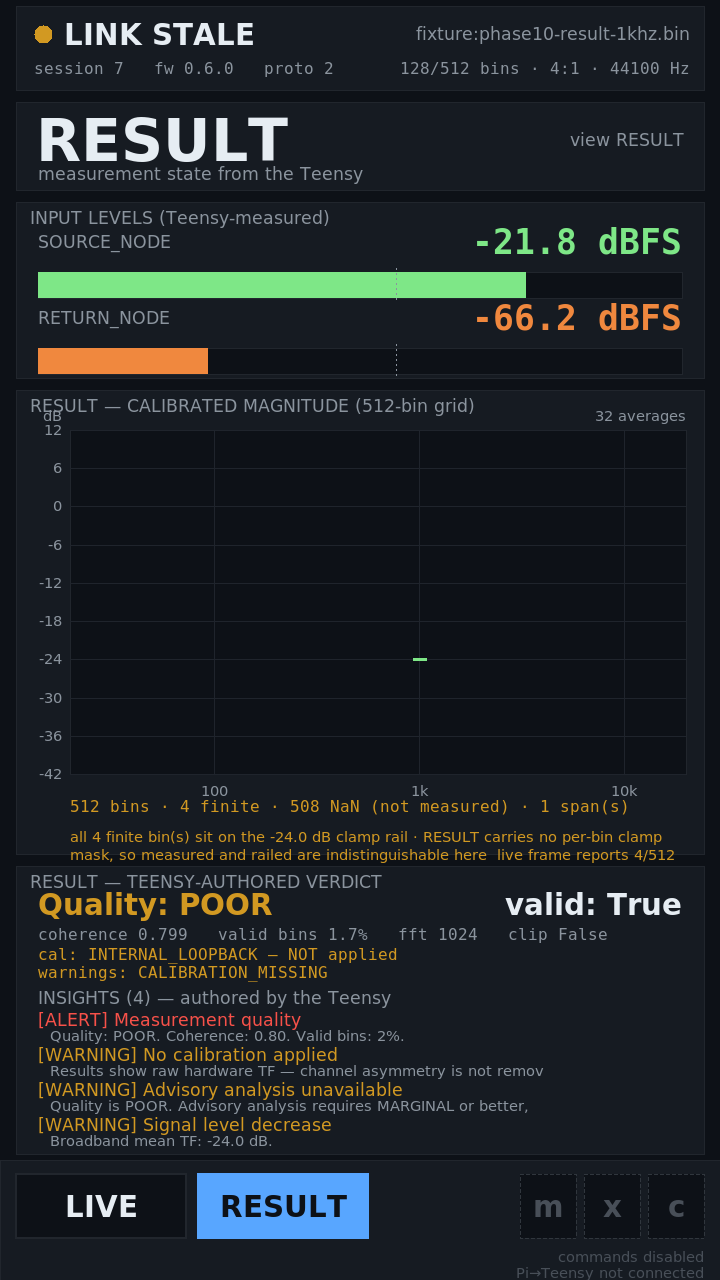
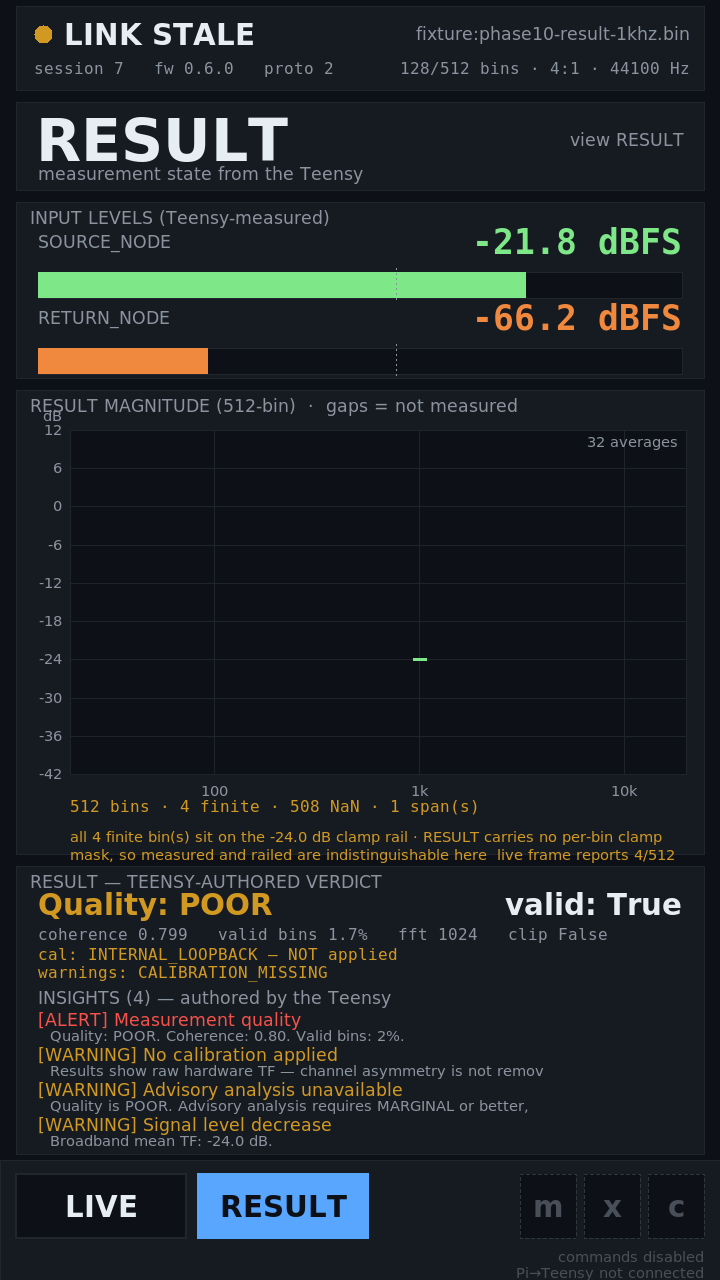
evidence(pi): UI reads the live UART on the physical display
First time the production UI has rendered live Teensy telemetry off
/dev/ttyAMA0 on the Touch Display 2. No flash, no firmware change, no
measurement initiated, no analog or routing change. Firmware dcfbffa,
session 9, unchanged since T1 Run 2.

Ground truth was captured BEFORE the UI touched the port -- two readers on
one tty would split the byte stream -- then compared: 182 305 B at
36 461 B/s, session 9, IDLE, TS return, detectors UNKNOWN.

Verified: HELLO establishes the session with geometry read from the wire;
LINK UP; SOURCE/RETURN updating; frames ok 100 -> 255 in six seconds, i.e.
25.8 packets/s against the producer's measured 25.6/s; CRC 0, decode 0,
interior discard 0; router TS with every detector UNKNOWN; clean SIGTERM
exit; and the device genuinely released, proved by a fresh capture.sh
succeeding immediately afterwards rather than by the process disappearing.

Receive-only is structural and now provable: /proc/<pid>/fd shows
lr-x ... -> /dev/ttyAMA0, because SerialSource opens O_RDONLY. The UI
cannot transmit even by accident.

THE TONE WAS OFF AGAIN, AND IT SHARPENED THE TEST. Source and return
within 1 dB at the noise floor, so the live transfer function renders
NOTHING, and the instrument says why: 0 finite, 128 NaN, 0 clamped,
128 lifted. A renderer willing to interpolate, or to read "no data" as
zero, would have drawn a confident line across an input that was not
there. Still owed for the portfolio: the opposite shot, an energised live
[…]

diff --git a/pi/analyzer_ui/app.py b/pi/analyzer_ui/app.py
@@ -95,11 +95,14 @@ class AnalyzerUI:
         self.root.title("Guitar Rig Analyzer")
         self.root.configure(bg=BG)
         self.root.geometry(f"{W}x{H}")
+        self._want_fullscreen = fullscreen
         if fullscreen:
-            self.root.attributes("-fullscreen", True)
-            # The desktop icon layer drew over the canvas on this Pi's
-            # labwc session; -topmost keeps the instrument in front.
-            self.root.attributes("-topmost", True)
+            self._go_fullscreen()
+            # Applying -fullscreen before the window is mapped is silently
+            # ignored under XWayland on this Pi -- one launch in several came
+            # up windowed with the taskbar visible. Re-assert after the window
+            # exists; it is idempotent, so doing it twice costs nothing.
+            self.root.after(120, self._go_fullscreen)
         self.root.bind("<Escape>", lambda _e: self.root.destroy())
 
         self.canvas = tk.Canvas(self.root, width=W, height=H, bg=BG,
@@ -114,6 +117,18 @@ class AnalyzerUI:
             "meter": _f(26, True, mono=True),
         }
         self._hit: list[tuple[int, int, int, int, str]] = []
+
+    def _go_fullscreen(self) -> None:
+        if not self._want_fullscreen:
+            return
+        try:
+            self.root.update_idletasks()
+            self.root.attributes("-fullscreen", True)
+            # The desktop icon layer composites over the canvas on this Pi's
+            # labwc session; -topmost keeps the instrument in front.
+            self.root.attributes("-topmost", True)
+        except tk.TclError:                        # pragma: no cover - teardown
+            pass
 
     # -- input ---------------------------------------------------------------
 
@@ -266,8 +281,8 @@ class AnalyzerUI:
         c.create_text(x0 - 8, y0 - 14, text="dB", anchor="e", fill=MUTED,
                       font=self.fonts["tiny"])
         if subtitle:
-            c.create_text(x1, y0 - 14, text=subtitle, anchor="e", fill=MUTED,
-                          font=self.fonts["tiny"])
+            c.create_text(x1 - 8, y0 + 12, text=subtitle, anchor="e",
+                          fill=MUTED, font=self.fonts["tiny"])
         return fx, fy, (x0, y0, x1, y1)
 
     def _draw_curve(self, segs, colour, width=2) -> None:
@@ -285,7 +300,7 @@ class AnalyzerUI:
     def _census_line(self, box, cen, extra="") -> None:
         x0, _y0, x1, y1 = box
         txt = (f"{cen['elements']} bins · {cen['finite']} finite · "
-               f"{cen['nan']} NaN (not measured)")
+               f"{cen['nan']} NaN")
         if cen["pos_inf"] or cen["neg_inf"]:
             txt += f" · {cen['pos_inf'] + cen['neg_inf']} Inf — FINDING"
         if extra:
@@ -299,7 +314,9 @@ class AnalyzerUI:
                 if s.tf_confidence is not None else "")
         if s.tf_clamped_count is not None:
             conf += f"   ·   {s.tf_clamped_count}/512 clamped"
-        fx, fy, box = self._plot_frame("LIVE TRANSFER FUNCTION", conf)
+        fx, fy, box = self._plot_frame(
+            "LIVE TRANSFER FUNCTION  ·  gaps = not measured",
+            conf)
         if live is None or geo is None:
             self.canvas.create_text((box[0] + box[2]) / 2,
                                     (box[1] + box[3]) / 2,
@@ -335,7 +352,7 @@ class AnalyzerUI:
     def _draw_result_plot(self, s: Snapshot) -> None:
         res, geo = s.result, s.geometry
         fx, fy, box = self._plot_frame(
-            "RESULT — CALIBRATED MAGNITUDE (512-bin grid)",
+            "RESULT MAGNITUDE (512-bin)  ·  gaps = not measured",
             f"{res.n_averages_completed} averages" if res else "")
         if res is None or geo is None:
             self.canvas.create_text((box[0] + box[2]) / 2,

diff --git a/ai/evidence/2026-09-30-pi-ui-live-uart-smoke-test.md b/ai/evidence/2026-09-30-pi-ui-live-uart-smoke-test.md
@@ -1,0 +1,132 @@
+# Live Pi UI smoke test — the production UI reading the real UART
+
+**2026-09-30 (00:05–00:15 local).** First time the Pi UI has rendered live
+Teensy telemetry off `/dev/ttyAMA0` on the physical Touch Display 2.
+
+**No flash. No firmware change. No validation harness, generator, injection,
+relay or analog change. No measurement initiated.** Firmware `26f2bee`,
+session **9**, unchanged since T1 Run 2. Receive-only wiring untouched.
+
+Media: [`2026-09-30-pi-ui-live-uart.png`](2026-09-30-pi-ui-live-uart.png)
+(live, `/dev/ttyAMA0`) and
+[`2026-09-29-pi-ui-result-view.png`](2026-09-29-pi-ui-result-view.png)
+(the real 2026-09-27 RESULT, replayed).
+
+## Ground truth established BEFORE the UI touched the port
+
+Two readers on one tty would split the byte stream, so the reference capture was
+taken first, with the UI not running:
+
+```
+sh pi/tools/capture.sh /dev/ttyAMA0 5 /tmp/gt.bin
+elapsed 5s of 5s · 182 305 B · 36 461 B/s
+sha256 e2e3bc42bdb6750d518047c6ec705dc972a38a5abbe03d4ae26ff437e37faefa
+```
+
+`replay.py`: session **9**, firmware 0.6.0, geometry 128/512/4:1/44100,
+`measurement_state IDLE`, no abort, `return_source TS`, all four detectors
+UNKNOWN, `any_detector_available False`, injection inactive,
+**peak source −65.2 dBFS / peak return −66.2 dBFS**, `tf_confidence 0.0`,
+`tf_clamped_count 0`. `TRANSPORT: OK`.
+
+## ⚠ The 1 kHz stimulus was NOT playing
+
+Source and return within 1 dB of each other, both at the noise floor, zero
+confidence, zero clamped bins — the documented signature of an absent input. The
+phone tone stopped again at some point after Run 2.
+
+**That is not a defect and it did not block the smoke test.** Every item on the
+checklist is about the *link and the renderer*, none of which depends on signal
+being present. It also produced a sharper demonstration than a tone would have:
+with nothing on the input the live TF plot is **completely empty**, and the
+instrument says exactly why — `0 finite · 128 NaN · 0 clamped · 128 lifted`.
+A UI willing to fabricate would have drawn something there.
+
+**What it does mean:** the portfolio "hero" shot of an *energised* live transfer
+function still needs the tone restarted. Everything else is captured.
+
+## Checklist — all verified
+
+| Required | Observed |
+|---|---|
+| UI launches on the physical Touch Display | ✅ fullscreen 720×1280 portrait, captured with `grim` |
+| HELLO establishes the session | ✅ `LINK UP`, session **9**, fw 0.6.0, proto 2, geometry 128/512 · 4:1 · 44100 Hz — all from HELLO, none hard-coded |
+| Live SOURCE/RETURN telemetry updates | ✅ SOURCE −64.3 → −64.7 → −63.5 dBFS across captures; RETURN −65.2…−67.4. Noise-floor wander, which is what a real noise floor does |
+| Live TF updates without fabricating | ✅ **nothing drawn**: `128 bins · 0 finite · 128 NaN · 0 clamped · 128 lifted`, confidence 0 % |
+| Router reports TS and detectors UNKNOWN | ✅ `Return source: TS`, `TS return, no injection`, `detectors: UNKNOWN (no detect hardware fitted)`, with the ADR-004 note on screen |
+| Connection status correct | ✅ `LINK UP` while streaming; `LINK STALE` (amber) on the spent fixture — the staleness rule works in both directions |
+| Closes cleanly, releases the device | ✅ see below |
+
+### Live counters advancing (same run, 6 s apart)
+
+`frames ok 100 → 255` — **155 frames in 6 s = 25.8 packets/s** against the
+producer's measured 25.6/s. `CRC fail 0`, `decode err 0`, `interior 0`
+throughout.
+
+### Receive-only, proved rather than asserted
+
+```
+ls -l /proc/<pid>/fd  →  lr-x------ 1 conley conley 64 … 3 -> /dev/ttyAMA0
+```
+
+**`lr-x`** — opened read-only. `SerialSource` uses `os.O_RDONLY`, so the UI
+**cannot transmit even by accident**. The Pi→Teensy direction stays physically
+disconnected *and* structurally impossible from this code.
+
+### Clean shutdown and device release
+
+`kill -TERM` → process gone; `ls -l /proc/*/fd | grep -c ttyAMA0` → **0**; and a
+fresh `capture.sh` immediately afterwards succeeded (109 693 B at 36 564 B/s),
+which proves the device was actually released rather than merely closed on paper.
+
+### Leading-discard split, visible live
+
+Three launches reported `discarded 634 / 357 / 96 — (lead N, interior 0)`. The
+figure varies because it is set by **where inside a packet the reader attached**,
+which is exactly what the 2026-09-27 byte-accounting analysis established. Every
+one had **interior 0**. The instrument now shows that split on its own face.
+
+## 🛑 TODO-65 preserved and visible, not silently resolved
+
+**RESULT carries no per-bin clamp mask.** The real RESULT's four finite magnitude
+bins all read exactly **−24.0 dB**, the firmware's clamp rail, and nothing in the
+RESULT packet distinguishes a measured −24.0 dB from a railed one. LIVE_FRAME
+carries per-bin coverage nibbles and `tf_clamped_count`; RESULT carries neither.
+
+**The Pi does not infer clamp status.** It prints the limitation on the plot:
+
+> *all 4 finite bin(s) sit on the −24.0 dB clamp rail · RESULT carries no per-bin
+> clamp mask, so measured and railed are indistinguishable here · live frame
+> reports 4/512 clamped*
+
+The −24.0 dB comparison is a **disclosure heuristic, not a classification**: it
+says "these might be rails and I cannot tell", never "these are rails". It must
+be deleted when the protocol closes the gap. A test pins the gap's existence so
+it fails loudly when that happens.
+
+## What this does NOT establish
+
+- **Not T1.** Blocked on the harness stride defect (TODO-39); untouched here.
+- **Not a live RESULT.** No measurement was initiated, deliberately — the
+  2026-09-27 fixture already provides a real one. RESULT rendering is proven
+  against recorded bytes, not against a live delivery.
+- **Not the Pi→Teensy path.** Physically disconnected; commands render disabled.
+- **Not runbook step 7.** The clamp *rendering* contract needs an energised,
+  clamped live signal to demonstrate, which needs the tone back.
+- **Not Phase 9, not Phase 10.** Both open.
+
+## Blockers to making this the production launch path
+
+**None technical.** It runs, reads live, renders honestly, and exits cleanly.
+Outstanding for "normal launch path" status:
+
+1. **Autostart** — a `.desktop` entry or systemd user unit so the panel comes up
+   into the instrument rather than the desktop. Not done; a deliberate choice, so
+   the Pi stays a normal desktop while it is also a development machine.
+2. **Desktop icon layer** composites *over* the fullscreen window on this labwc
+   session. Worked around for captures with `pcmanfm --desktop-off`, restored
+   afterwards. Autostart plus a hidden desktop would remove it permanently.
+3. **Fullscreen race** — `-fullscreen` applied before the window is mapped was
+   silently ignored on roughly one launch in several under XWayland. Fixed by
+   re-asserting it 120 ms after mapping; the launch that exposed it came up
+   windowed with a taskbar, which is how it was caught.

diff --git a/ai/journal.md b/ai/journal.md
@@ -12,6 +12,36 @@ How to use this file:
 
 ---
 
+## 2026-09-30 (1) — **The Pi UI is reading the live UART on the physical display.** With no stimulus connected it draws nothing, and says why — which is a better demonstration than a tone would have been
+
+Checkpointed the night's work as three commits, then ran the live smoke test. No flash, no firmware change, no measurement initiated, no analog or routing change. Firmware `26f2bee`, session **9**, unchanged since Run 2. Record: [`2026-09-30-pi-ui-live-uart-smoke-test.md`](evidence/2026-09-30-pi-ui-live-uart-smoke-test.md).
+
+**Ground truth first, deliberately.** Two readers on one tty split the byte stream, so a 5 s `capture.sh` reference was taken *before* the UI touched the port: 182 305 B at 36 461 B/s, session 9, IDLE, TS return, detectors UNKNOWN. Then the UI, then the comparison.
+
+**Everything on the checklist verified.** HELLO established the session with geometry read from the wire rather than hard-coded; `LINK UP`; SOURCE/RETURN updating; `frames ok 100 → 255` in six seconds, which is **25.8 packets/s against the producer's measured 25.6/s**; CRC 0, decode 0, interior discard 0; router TS with every detector UNKNOWN and the ADR-004 note on screen; clean SIGTERM exit; and the device genuinely released — proved by a fresh capture succeeding immediately afterwards, not by the process merely disappearing.
+
+**Receive-only is structural, and now provable.** `/proc/<pid>/fd` shows `lr-x ... -> /dev/ttyAMA0`. `SerialSource` opens `O_RDONLY`, so the UI cannot transmit even by accident. The Pi→Teensy direction is both physically disconnected and impossible from this code.
+
+### The tone was off again, and it made the test better
+
+Source and return within 1 dB of each other at the noise floor — the documented signature of an absent input. So the live transfer function rendered **completely empty**, with the instrument stating `0 finite · 128 NaN · 0 clamped · 128 lifted`.
+
+That is the whole design argument in one screenshot. A renderer willing to interpolate, or to treat "no data" as zero, would have drawn a confident line across an input that was not there. This one draws nothing and explains itself. **What is still owed is the opposite shot** — an energised live TF — and that needs the phone restarted, which is the one thing I cannot do.
+
+### Three layout defects found only by looking at the panel
+
+Text that reads fine in code collided on a 720×1280 portrait panel: the verdict row overlapped itself, the fourth insight was clipped — the one saying advisories are unavailable, exactly the one you must not lose — and the census line ran off the right edge. All three were invisible until the screenshot. **Rendering to a real panel is a test, not a formality.**
+
+Two placement attempts for the "gaps = not measured" note also collided, first with the panel title and then with the subtitle. The fix was structural rather than another nudge: move the subtitle *inside* the plot box so the title row is free whatever its length. Chasing pixels twice was the signal to change the layout instead of the coordinates.
+
+**One real bug surfaced the same way.** `-fullscreen` applied before the window is mapped is silently ignored under XWayland — about one launch in several came up windowed with the taskbar showing. Re-asserting it 120 ms after mapping fixes it. It would never have appeared in a test suite.
+
+### TODO-65 stays visible rather than quietly resolved
+
+The real RESULT's four finite bins all read exactly −24.0 dB, the clamp rail, and RESULT carries no per-bin clamp mask — LIVE_FRAME does. The Pi **does not infer** clamp status. It prints the limitation on the plot, and the −24.0 comparison is a disclosure heuristic that says *"these might be rails and I cannot tell"*, never *"these are rails"*. It gets deleted when the protocol closes the gap, and a test pins the gap so it fails loudly then.
+
+**No technical blocker to making this the production launch path.** What is left is autostart, and hiding the desktop icon layer that composites over the fullscreen window on this labwc session.
+
 ## 2026-09-29 (1) — **T1 Run 2 ran, and the harness failed before the instrument did: 44 490 "skipped blocks" that never happened.** A 128-sample audio counter was being read as a 2 048-sample analysis counter. The Pi side had it right all along
 
 First hardware execution of `timing_probe`, and it broke on contact. Firmware `26f2bee` unmodified, session **9**, fresh physical power cycle, only `t` and `T` ever sent. **No flash, no firmware edit, no retry.** Records: [`t1-run2-pi-normal.txt`](evidence/t1-run2-pi-normal.txt), [`2026-09-29-t1-harness-block-stride-defect.md`](evidence/2026-09-29-t1-harness-block-stride-defect.md).

diff --git a/ai/todo.md b/ai/todo.md
@@ -1285,6 +1285,8 @@ from *schema-frozen, transport-unproven* to proven, and the milestone is
 ### TODO-36 — Pi-side software deliverables 🟡 **PARSER BUILT 2026-09-26, HARDENED 2026-09-27. RENDERER PROVISIONALLY AUTHORISED 2026-09-29 — a development decision, NOT an acceptance waiver**
 > **✅ OPERATOR AUTHORISATION 2026-09-29, and its exact scope.** Renderer development may proceed **despite the incomplete T1 matrix**. Stated by the operator as *"provisional … This is a development decision, NOT an acceptance waiver."*
 > **What justifies it:** the T1 gate existed because *"a renderer embeds frame-rate and latency assumptions T1 could invalidate."* Run 2 **measured** those assumptions directly — **46.440 ms ± 0.089 ms block period, 21.5 frames/s, 0 dropped frames, 282 µs max transport call time** — so the renderer's inputs are now observed rather than speculative. And T1 is blocked on a **firmware instrumentation defect** (TODO-39), not on bench availability, so waiting would stall the deadline-critical work behind a defect fix that must not be flashed mid-matrix.
+> **✅ LIVE ON THE PHYSICAL DISPLAY, OFF THE REAL UART, 2026-09-30.** `python3 -m analyzer_ui --serial /dev/ttyAMA0` on the Touch Display 2: HELLO established session **9** with geometry read from the wire, `LINK UP`, live SOURCE/RETURN updating, router `TS` with all detectors `UNKNOWN`, `frames ok 100 → 255` in 6 s (**25.8 packets/s** against the producer's 25.6/s), CRC 0, decode 0, interior discard 0. **Receive-only proved structurally**, not asserted: `/proc/<pid>/fd` shows `lr-x ... -> /dev/ttyAMA0`, because `SerialSource` opens `O_RDONLY`. Closed on SIGTERM and **released the device** — a fresh `capture.sh` immediately afterwards succeeded. **No measurement was initiated**; the 2026-09-27 fixture supplies the RESULT. Record: [`2026-09-30-pi-ui-live-uart-smoke-test.md`](evidence/2026-09-30-pi-ui-live-uart-smoke-test.md), media [`2026-09-30-pi-ui-live-uart.png`](evidence/2026-09-30-pi-ui-live-uart.png).
+> **📌 The 1 kHz tone was not playing, and that sharpened the test.** Source and return both at the noise floor → the live TF plot renders **nothing at all**, and says why: `0 finite · 128 NaN · 0 clamped · 128 lifted`. A renderer willing to fabricate would have drawn something. **Still owed for the portfolio: an energised live TF, which needs the tone restarted.**
 > **🛑 WHAT THIS DOES NOT DO.** It does **not** close T1. It does **not** close this item, TODO-35, or runbook steps 7/11/12. It does **not** make the UI "accepted" — the renderer must be re-validated against the acceptance matrix once TODO-39 is fixed and the four runs actually complete. **Do not let a working UI be cited as evidence that T1 passed.**
 > **✅ SLICE 2 2026-09-27 — software only, no firmware change, no bench action. 228 → 252 tests.** Three things, all driven by real hardware bytes rather than by re-reading the header:
 > 1. **Discarded bytes are now judged by POSITION, and that was a real hole.** `replay.py` compared the *total* against `max_payload_bytes()` = **10 005 B** and called anything below it "explainable by a mid-stream start" — so up to 10 005 bytes of genuine **interior** loss could pass silently under a figure the report described as a capture artefact, and the bound used a *payload* size where one *framed* packet was the correct quantity. `ScannerStats` now splits leading from interior loss (`bytes_discarded` kept as their sum, so byte accounting and existing readers are unaffected), `replay.py` **fails on any interior discard event**, and `reset()` deliberately charges nothing so a reconnect cannot look like a transport fault. New tool [`pi/tools/byte_audit.py`](../pi/tools/byte_audit.py) closes the accounting and checks inter-frame contiguity, on top of the production scanner rather than a copy of it. **Audit of all five hardware captures: exactly ONE discard event each, at absolute offset 0, zero interior loss, zero inter-frame gaps, zero residual.** Record: [`2026-09-27-discarded-bytes-accounted.md`](evidence/2026-09-27-discarded-bytes-accounted.md).
